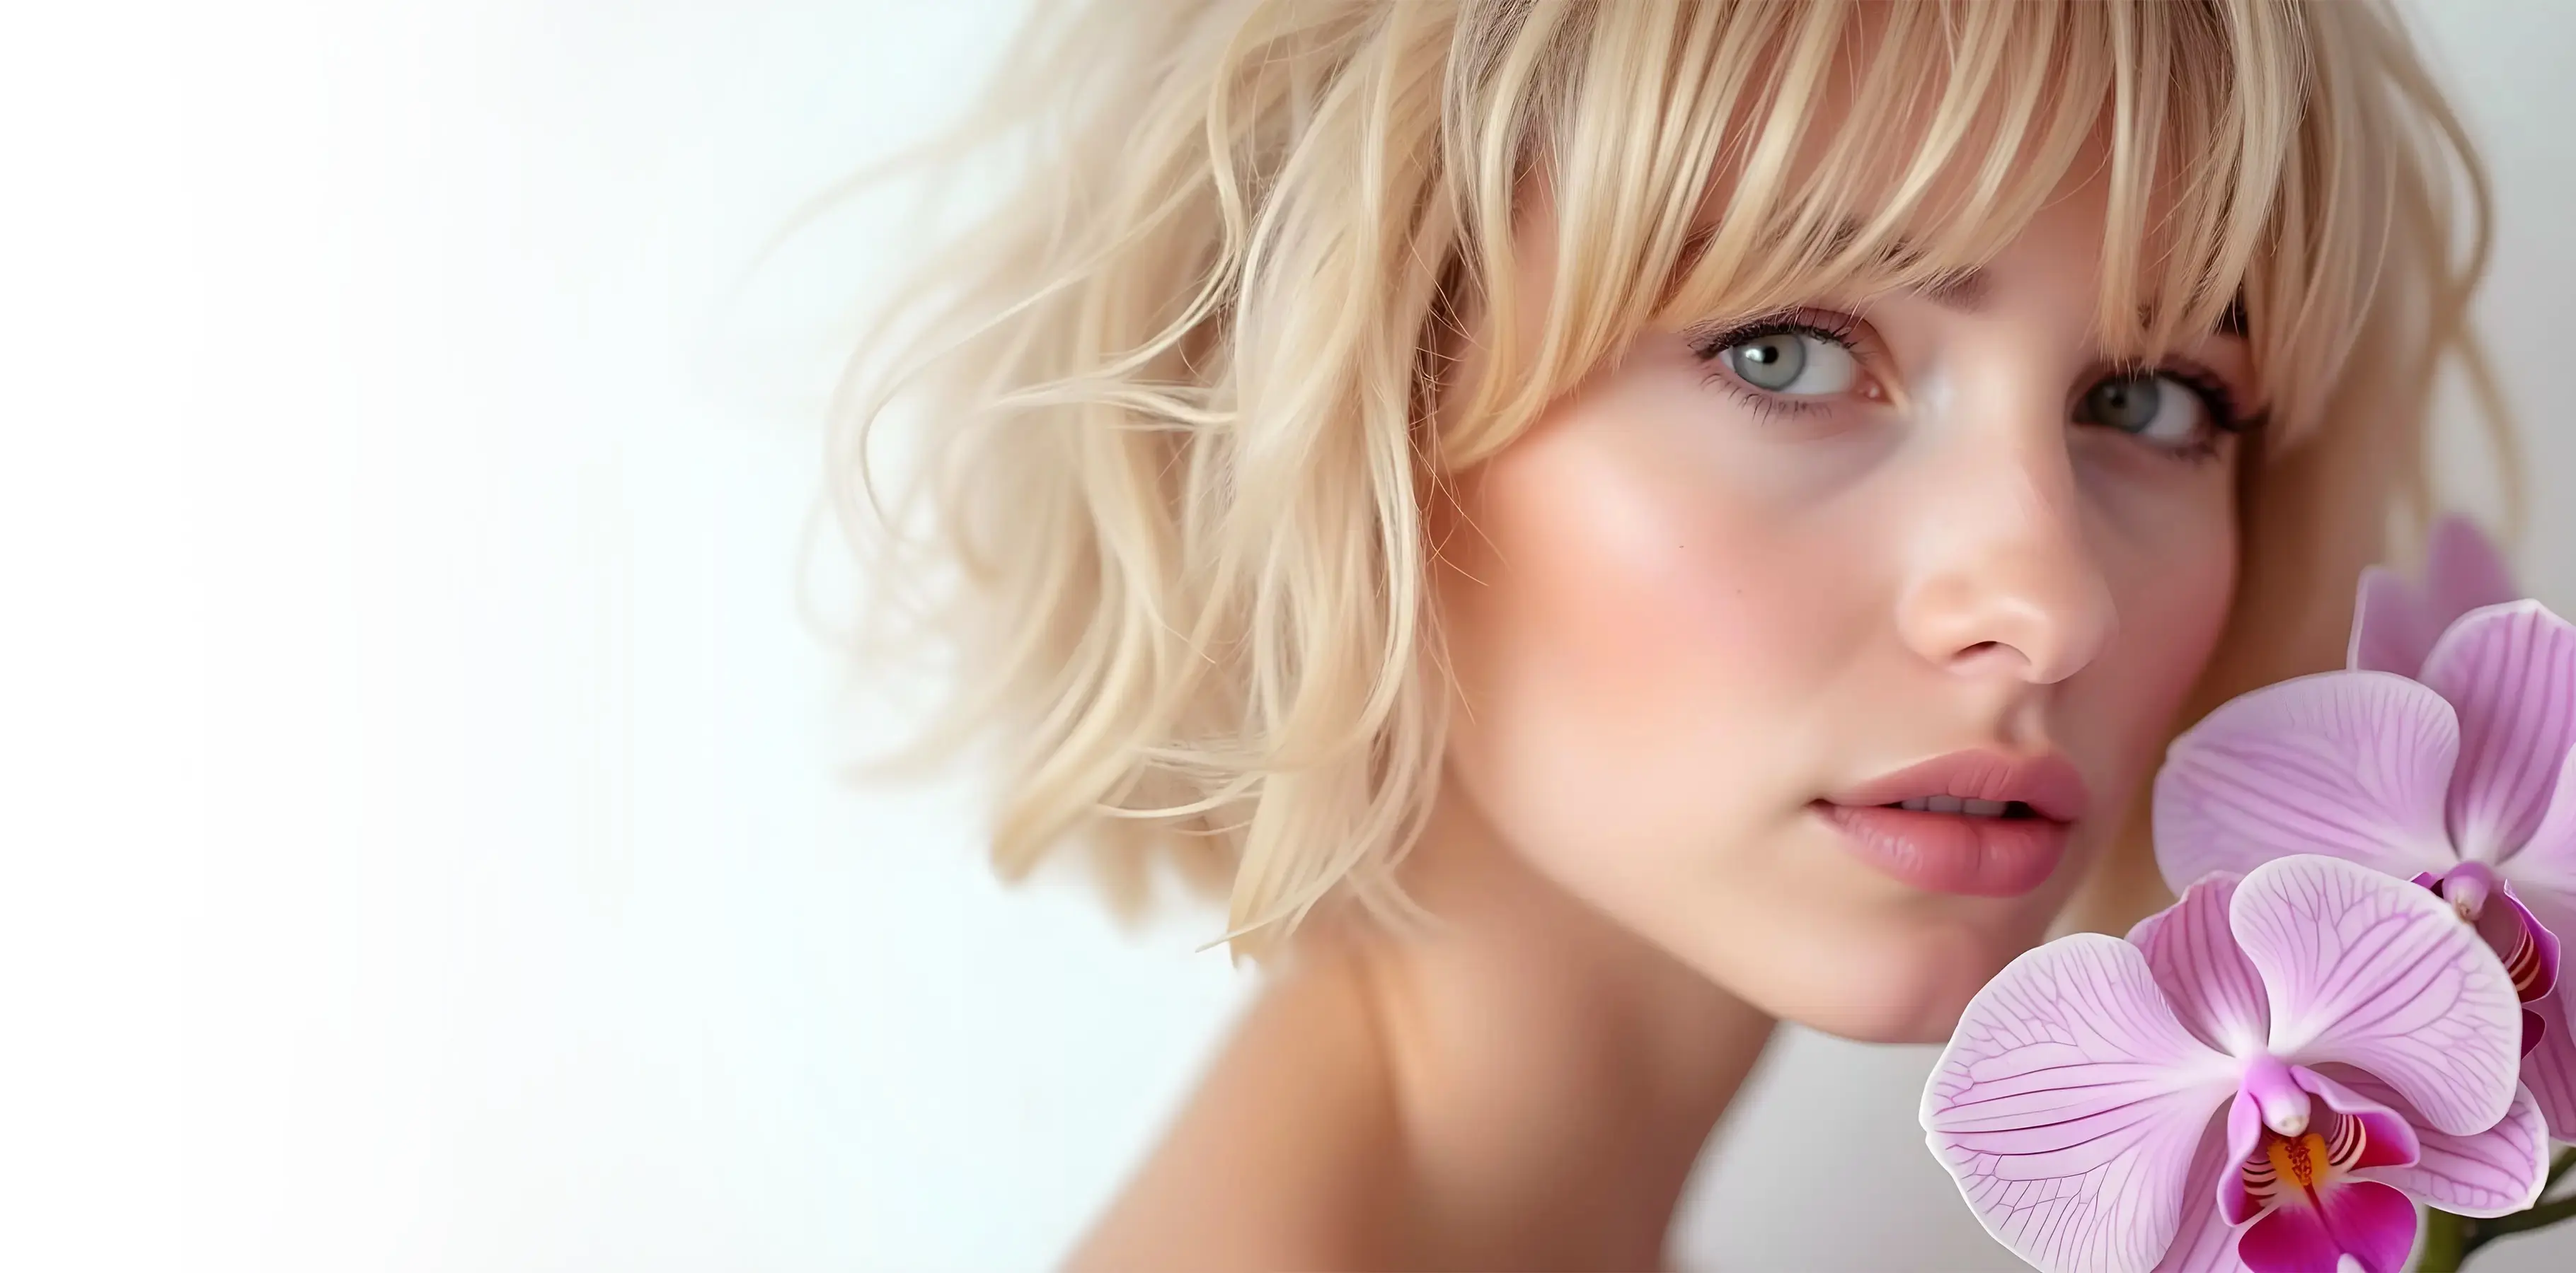
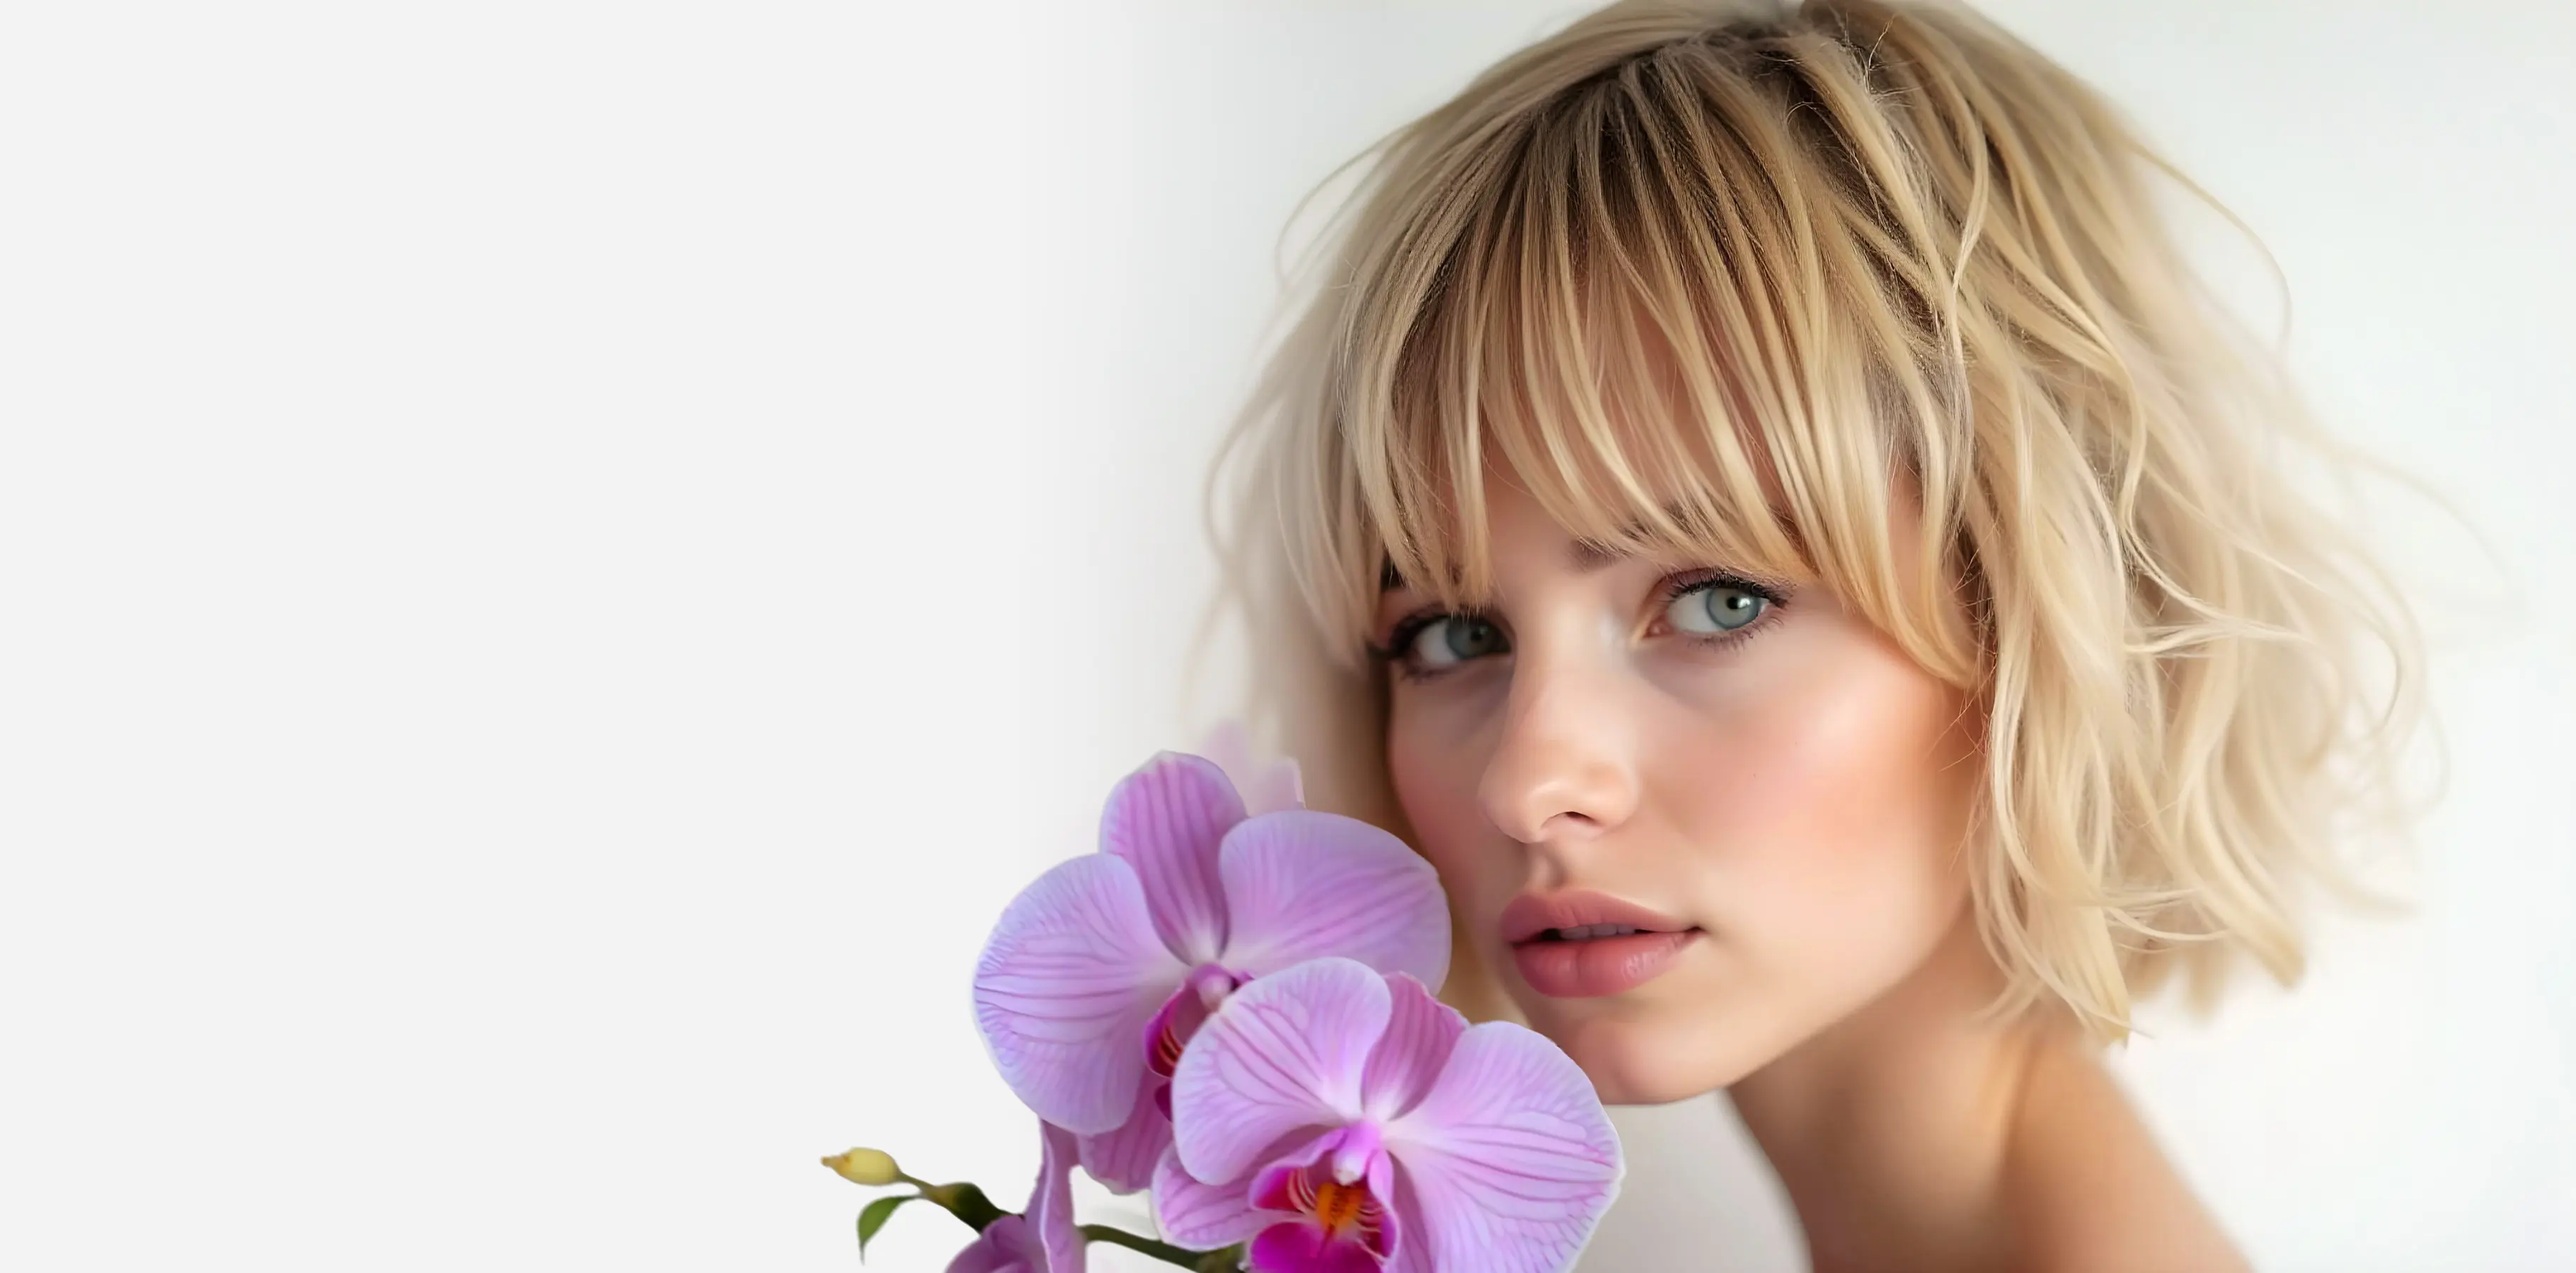
save

diff --git a/index.html b/index.html
@@ -2,7 +2,7 @@
 <html lang="en">
 
 <head>
-	<script async src="https://www.googletagmanager.com/gtag/js?id=G-Z068Y1ZDXC&_v=20250107093828"></script>
+	<script async src="https://www.googletagmanager.com/gtag/js?id=G-Z068Y1ZDXC&_v=20250107155434"></script>
 	<script>
 		window.dataLayer = window.dataLayer || [];
 
@@ -19,7 +19,7 @@
 	<meta name="description" content="Lauren - Flawless Beauty Art">
 	<meta name="robots" content="noindex, nofollow">
 	<title>Lauren Beauty Salon</title>
-	<link rel="stylesheet" href="css/style.min.css?_v=20250107093828">
+	<link rel="stylesheet" href="css/style.min.css?_v=20250107155434">
 	<link rel="shortcut icon" href="favicon.ico">
 </head>
 
@@ -116,7 +116,7 @@
 						</div>
 						<div class="hero__slide swiper-slide">
 							<div class="page__hero hero">
-								<img class="hero__image ibg ibg--right" src="img/hero/2.webp" alt="hero-bg" />
+								<img class="hero__image ibg" src="img/hero/2.webp" alt="hero-bg" />
 								<div class="hero__container">
 									<h2 data-watch data-watch-once data-watch-threshold="0.6" class="hero__title title">
 										Radiant Hair Revival
@@ -220,7 +220,7 @@
 						</div>
 						<div class="hero__slide swiper-slide">
 							<div>
-								<img class="hero__img ibg ibg--right" src="img/hero/2.webp" alt="hero-bg" />
+								<img class="hero__img ibg" src="img/hero/2.webp" alt="hero-bg" />
 							</div>
 						</div>
 						<div class="hero__slide swiper-slide">
@@ -235,7 +235,7 @@
 						</div>
 					</div>
 				</div>
-				<script src="https://cdn.jsdelivr.net/npm/swiper@11/swiper-bundle.min.js?_v=20250107093828"></script>
+				<script src="https://cdn.jsdelivr.net/npm/swiper@11/swiper-bundle.min.js?_v=20250107155434"></script>
 				<script>
 					var swiper = new Swiper(".mySwiper", {
 						loop: true,
@@ -2238,7 +2238,7 @@
 		</footer>
 
 	</div>
-	<script src="js/app.min.js?_v=20250107093828"></script>
+	<script src="js/app.min.js?_v=20250107155434"></script>
 </body>
 
 </html>
